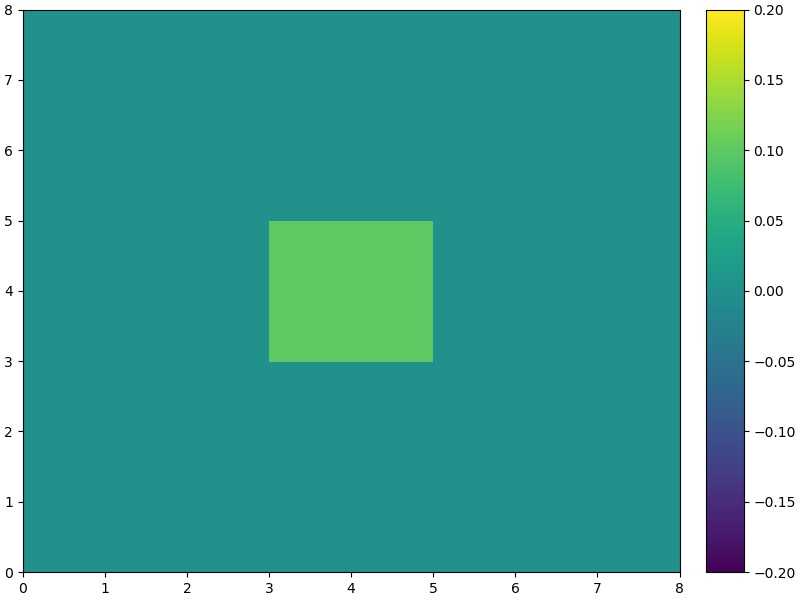
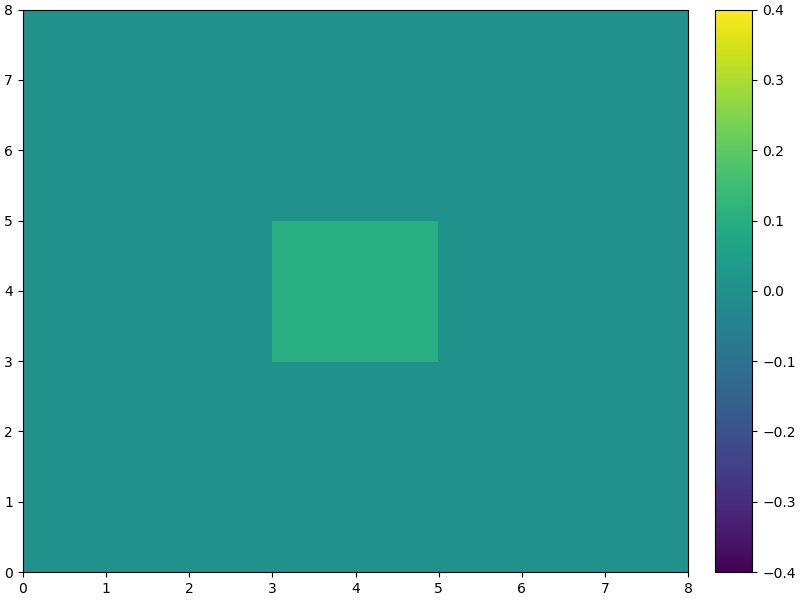
Changed scale for QUICK grad plot again

diff --git a/custom_apps/tf_cuda_gradients.py b/custom_apps/tf_cuda_gradients.py
@@ -141,10 +141,10 @@ class CUDAFlow(App):
         velocity_v_tensor_padded = tf.Variable(velocity_v_field.padded(2).data)
         velocity_u_tensor_padded = tf.Variable(velocity_u_field.padded(2).data)
         target = tf.constant(self._get_target_field().data)
-        plot_grid(density.data[0], "tf_cuda_grad/tf_cuda_init_rho.jpg", -0.2, 0.2)
-        plot_grid(velocity_v_field.data[0], "tf_cuda_grad/tf_cuda_init_v.jpg", -0.2, 0.2)
-        plot_grid(velocity_u_field.data[0], "tf_cuda_grad/tf_cuda_init_u.jpg", -0.2, 0.2)
-        plot_grid(self._get_target_field().data[0], "tf_cuda_grad/tf_cuda_target.jpg", -0.2, 0.2)
+        plot_grid(density.data[0], "tf_cuda_grad/tf_cuda_init_rho.jpg", -0.4, 0.4)
+        plot_grid(velocity_v_field.data[0], "tf_cuda_grad/tf_cuda_init_v.jpg", -0.4, 0.4)
+        plot_grid(velocity_u_field.data[0], "tf_cuda_grad/tf_cuda_init_u.jpg", -0.4, 0.4)
+        plot_grid(self._get_target_field().data[0], "tf_cuda_grad/tf_cuda_target.jpg", -0.4, 0.4)
         # Computation
         rho_adv = tf_cuda_quick_advection(density_tensor, density_tensor_padded, velocity_u_tensor_padded, velocity_v_tensor_padded, dt, dim, field_type="density")
         y = target - rho_adv
@@ -158,7 +158,7 @@ class CUDAFlow(App):
         sess.run(tf.global_variables_initializer())
         sess.run(train)
         result = sess.run((density_tensor_padded, velocity_u_tensor_padded, velocity_v_tensor_padded, y))
-        plot_grid(result[0][0], "tf_cuda_grad/tf_cuda_grad_rho.jpg", -0.4, 0.4)
+        plot_grid(result[0][0], "tf_cuda_grad/tf_cuda_grad_rho.jpg", -0.2, 0.2)
         plot_grid(result[1][0], "tf_cuda_grad/tf_cuda_grad_u.jpg", -0.4, 0.4)
         plot_grid(result[2][0], "tf_cuda_grad/tf_cuda_grad_v.jpg", -0.4, 0.4)
         plot_grid(result[3][0], "tf_cuda_grad/tf_cuda_grad_diff.jpg", -0.4, 0.4)
